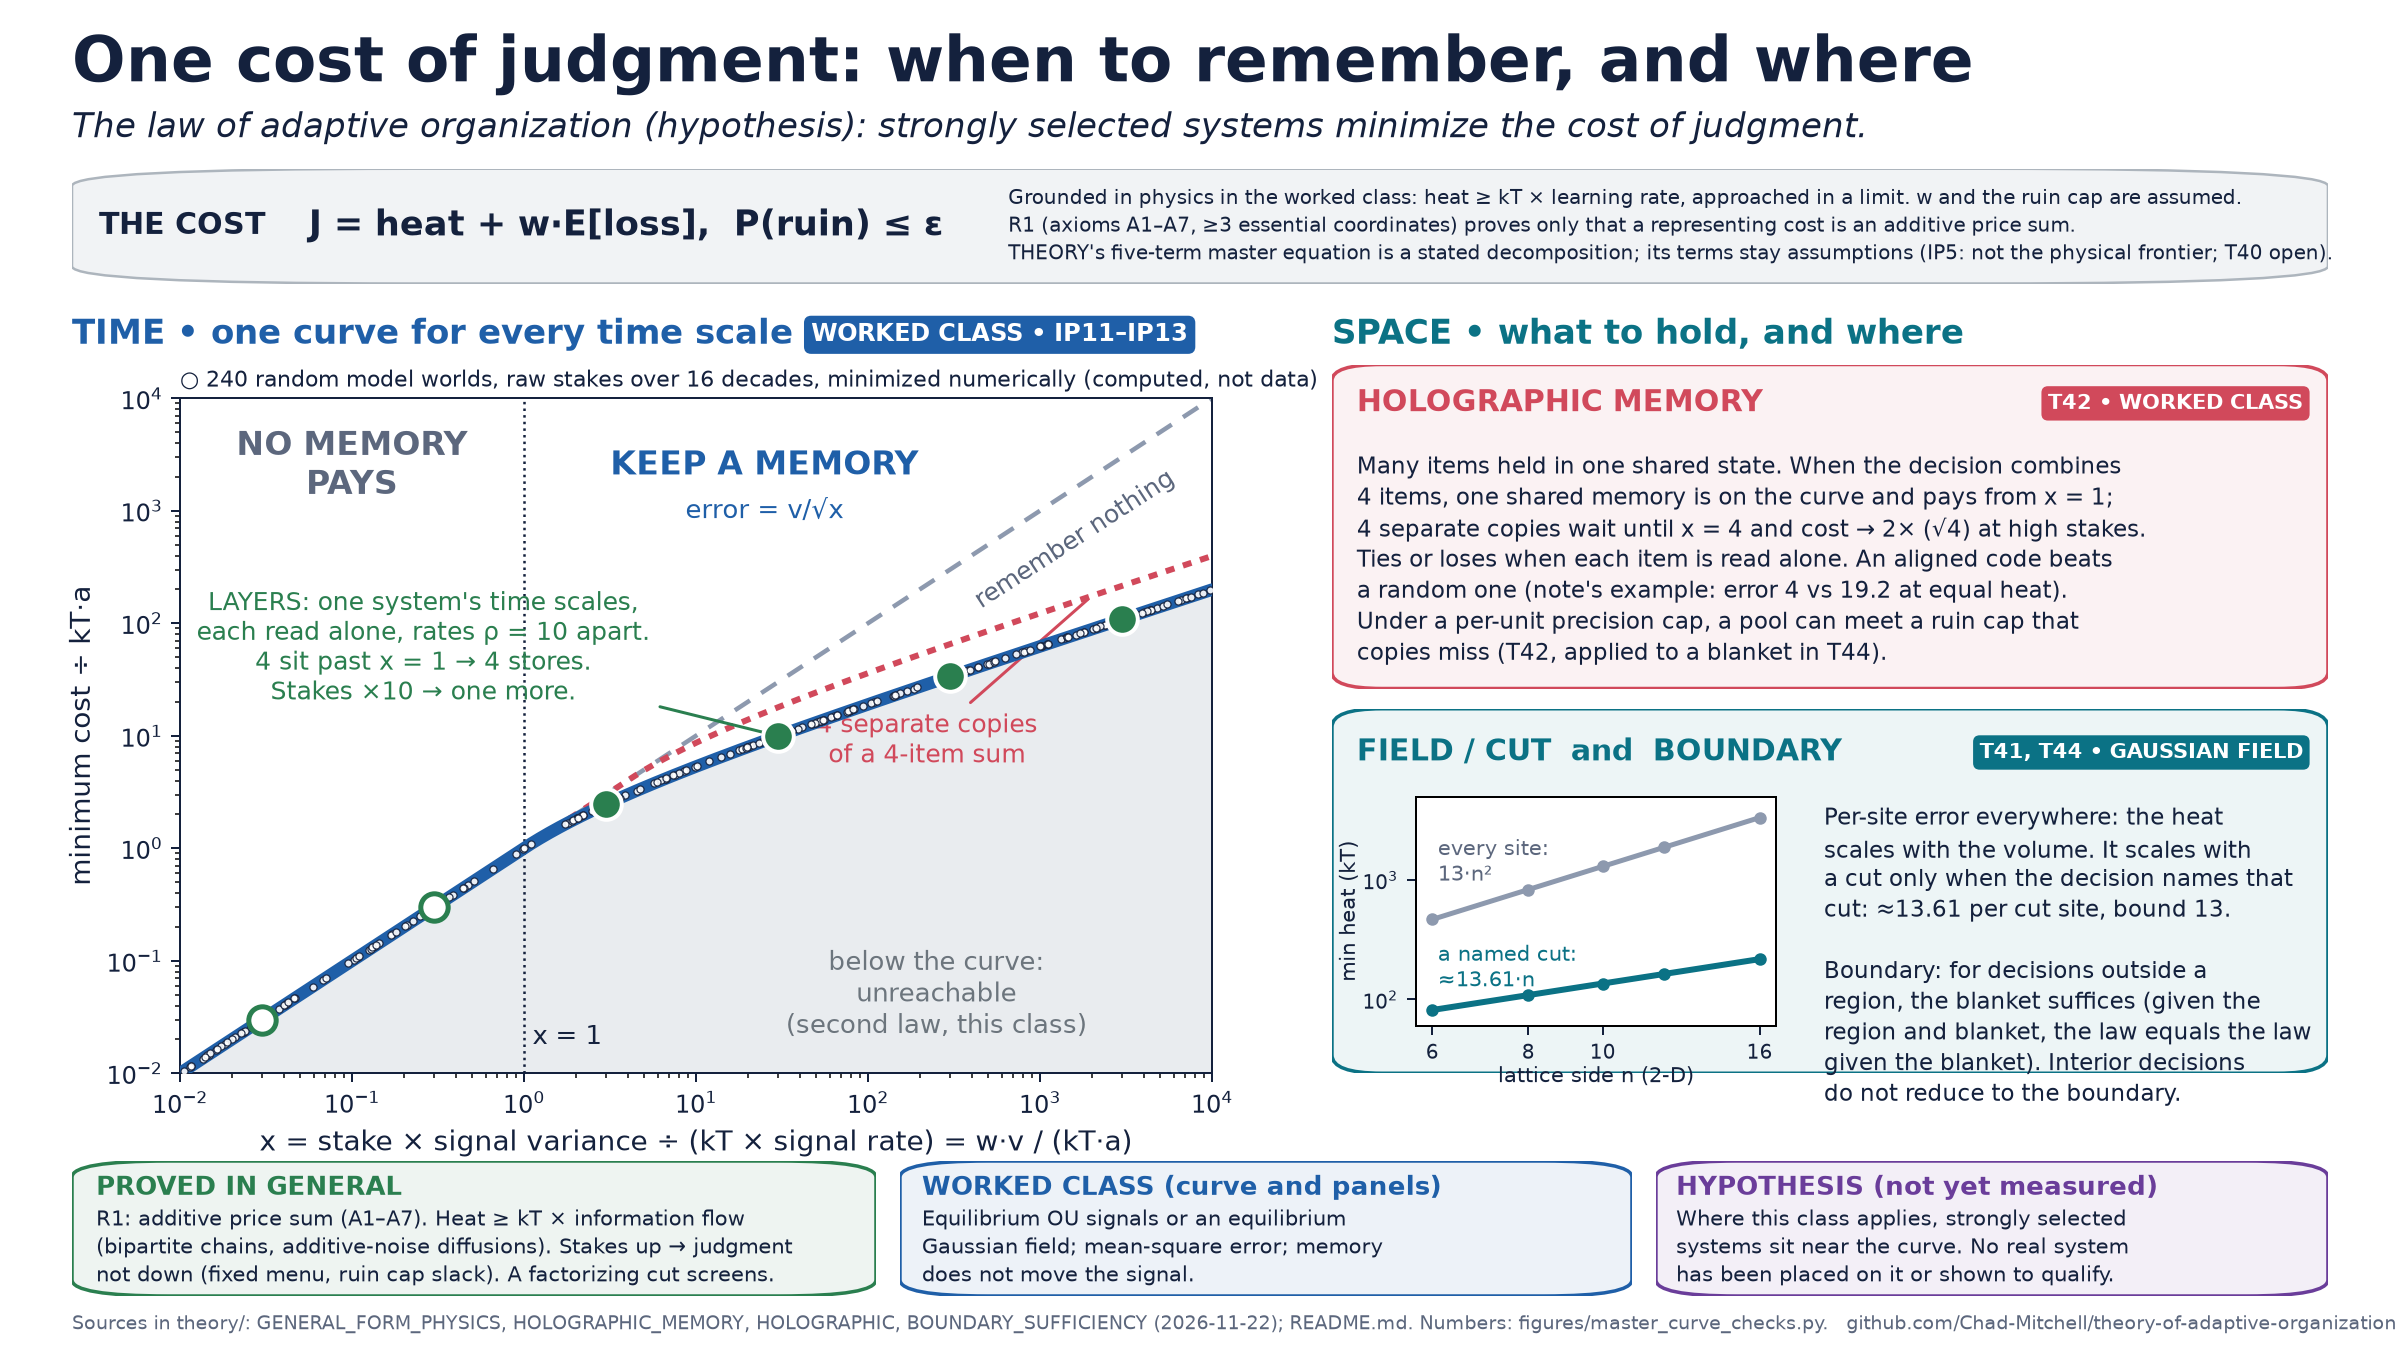
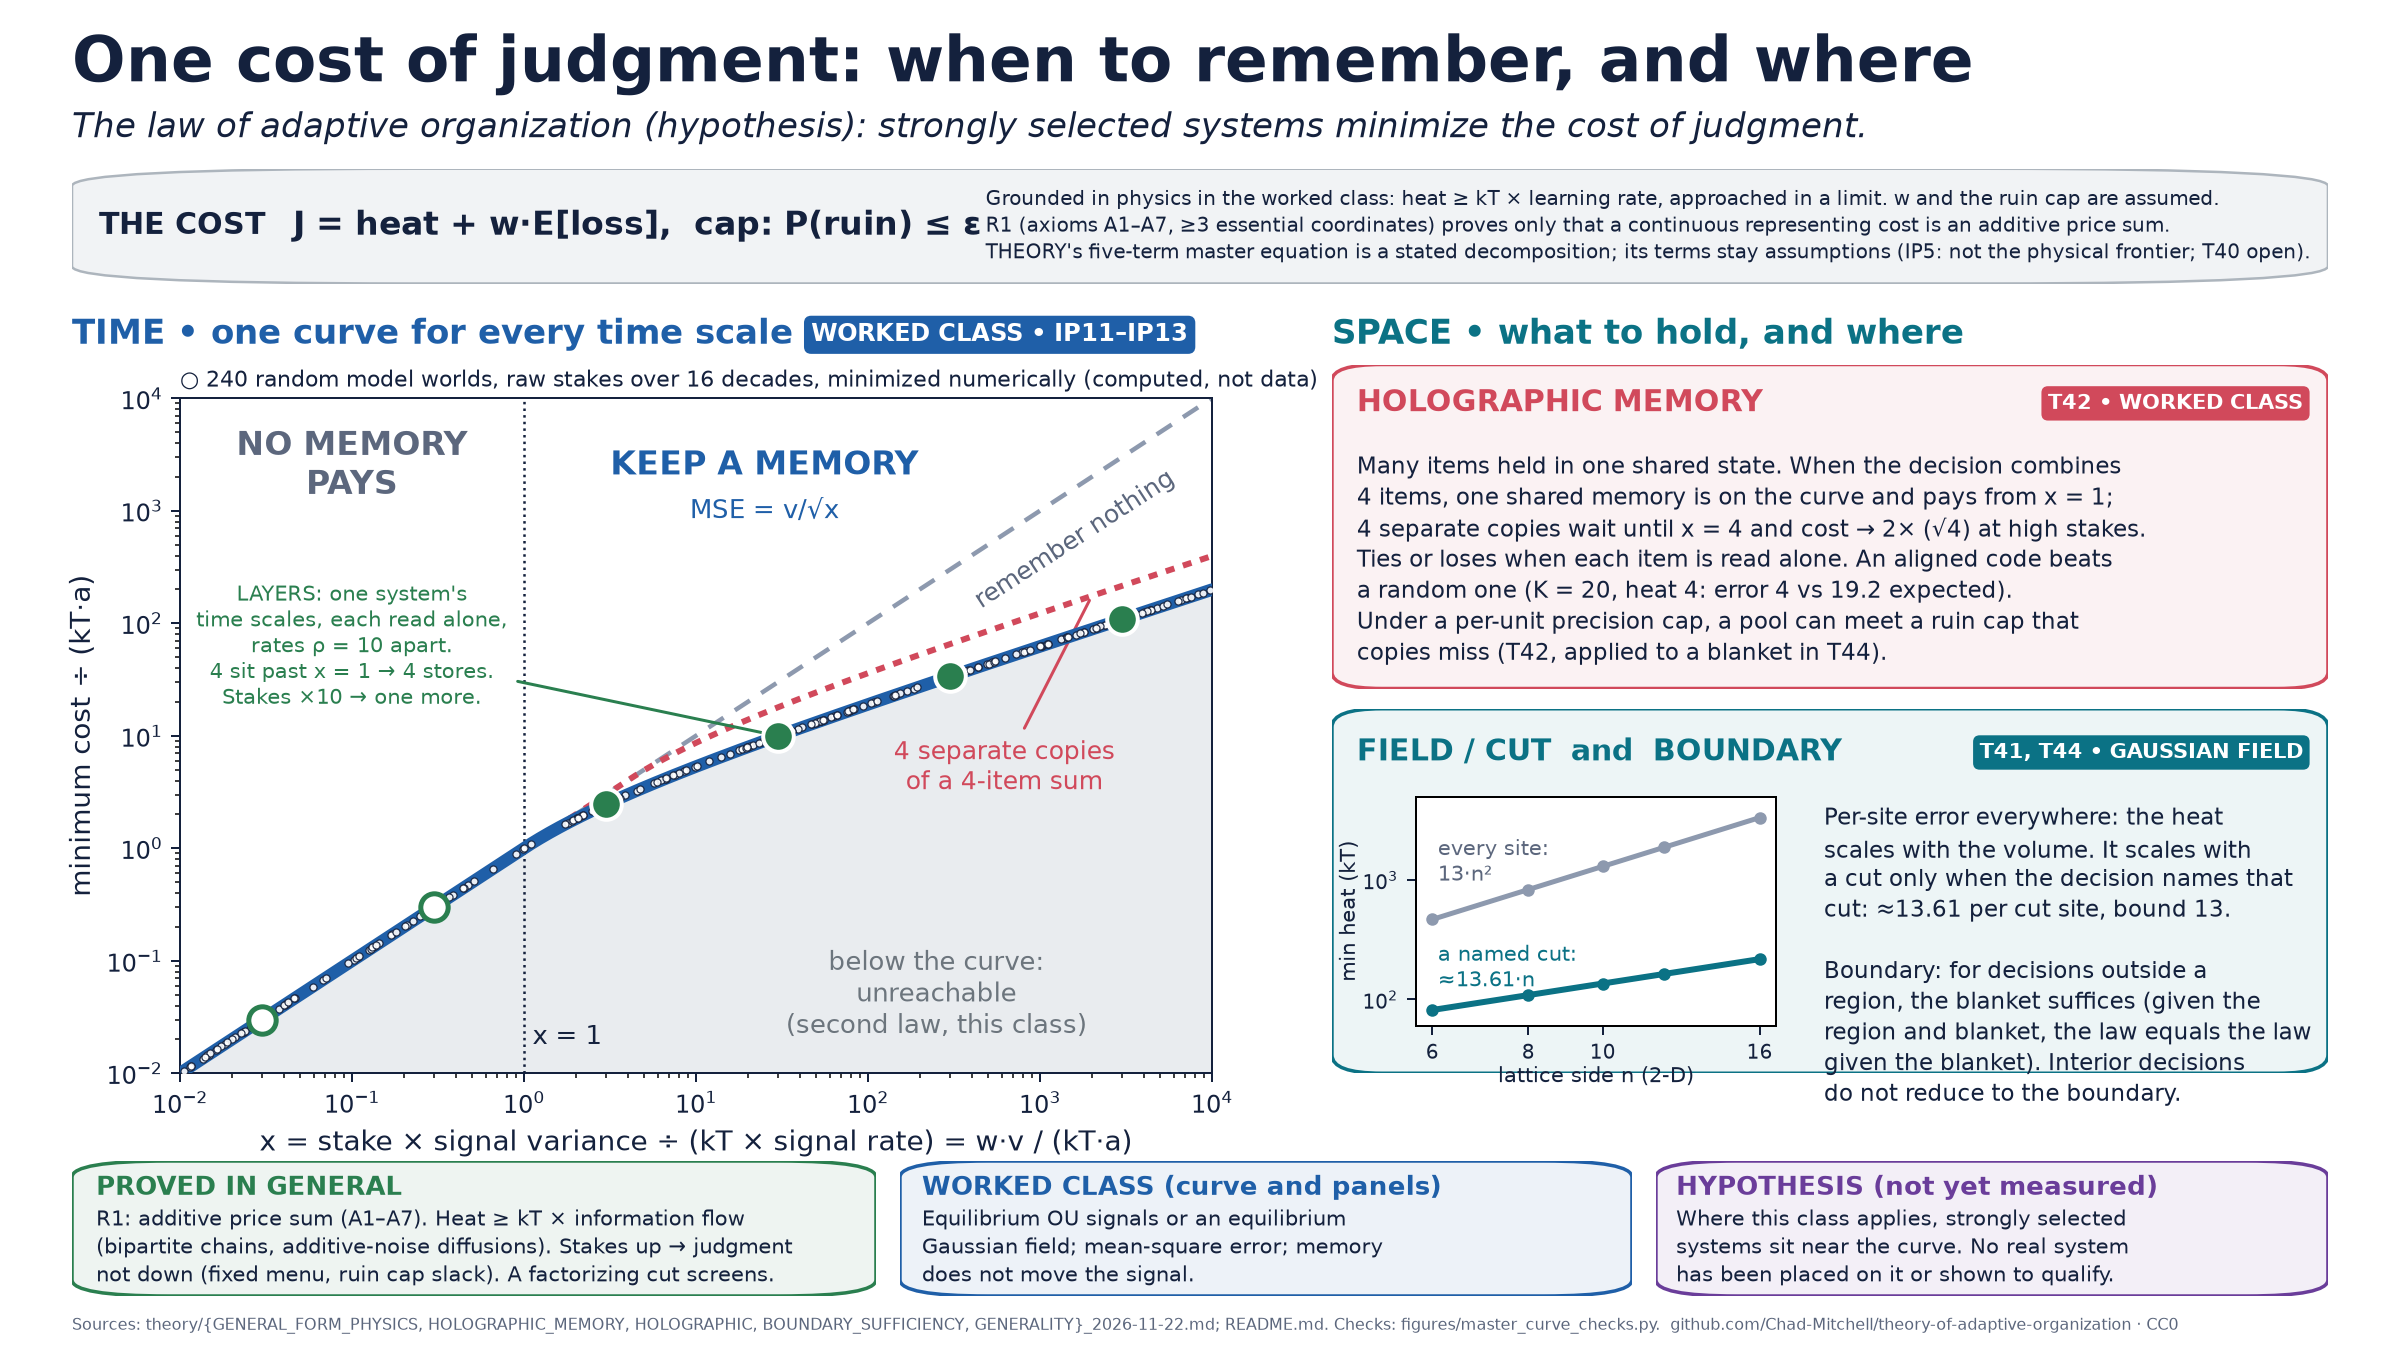
Hostile review fixes: fix annotation overlap, footer clipping, R1 wording, and BOUNDARY_SUFFICIENCY line citations

diff --git a/figures/master_curve.py b/figures/master_curve.py
@@ -33,13 +33,13 @@ axc = fig.add_axes([0.03, 0.79, 0.94, 0.085]); axc.axis("off")
 axc.add_patch(FancyBboxPatch((0, 0), 1, 1, boxstyle="round,pad=0,rounding_size=0.15", transform=axc.transAxes,
                              facecolor="#f1f3f5", edgecolor="#adb5bd", lw=1))
 axc.text(0.012, 0.5, "THE COST", fontsize=12, fontweight="bold", color=NAVY, va="center", transform=axc.transAxes)
-axc.text(0.105, 0.5, "J = heat + w\u00b7E[loss],  P(ruin) \u2264 \u03b5", fontsize=14, color=NAVY, va="center",
+axc.text(0.098, 0.5, "J = heat + w\u00b7E[loss],  cap: P(ruin) \u2264 \u03b5", fontsize=13.2, color=NAVY, va="center",
          transform=axc.transAxes, fontweight="bold")
-axc.text(0.415, 0.5,
+axc.text(0.405, 0.5,
          "Grounded in physics in the worked class: heat \u2265 kT \u00d7 learning rate, approached in a limit. w and the ruin cap are assumed.\n"
-         "R1 (axioms A1\u2013A7, \u22653 essential coordinates) proves only that a representing cost is an additive price sum.\n"
+         "R1 (axioms A1\u2013A7, \u22653 essential coordinates) proves only that a continuous representing cost is an additive price sum.\n"
          "THEORY's five-term master equation is a stated decomposition; its terms stay assumptions (IP5: not the physical frontier; T40 open).",
-         fontsize=8.2, color=NAVY, va="center", transform=axc.transAxes, linespacing=1.35)
+         fontsize=7.9, color=NAVY, va="center", transform=axc.transAxes, linespacing=1.35)
 
 # ---------------- TIME panel: the curve ----------------
 ax = fig.add_axes([0.075, 0.205, 0.43, 0.50])
@@ -69,14 +69,14 @@ ax.axvline(1, color=NAVY, lw=1, ls=":", zorder=1)
 ax.text(1.12, 1.6e-2, "x = 1", fontsize=10.5, color=NAVY, va="bottom")
 ax.text(0.1, 2.5e3, "NO MEMORY\nPAYS", fontsize=13, fontweight="bold", color="#5c677d", ha="center", va="center")
 ax.text(25, 2.5e3, "KEEP A MEMORY", fontsize=13, fontweight="bold", color=BLUE, ha="center", va="center")
-ax.text(25, 1.0e3, "error = v/\u221ax", fontsize=10.5, color=BLUE, ha="center", va="center")
-ax.annotate("LAYERS: one system's time scales,\neach read alone, rates \u03c1 = %g apart.\n4 sit past x = 1 \u2192 4 stores.\nStakes \u00d7%g \u2192 one more."
-            % (P["rho"], P["rho"]), xy=(lx[2], ly[2]), xytext=(0.26, 60), fontsize=9.8, color=GREEN, ha="center", va="center",
+ax.text(25, 1.0e3, "MSE = v/\u221ax", fontsize=10.5, color=BLUE, ha="center", va="center")
+ax.annotate("LAYERS: one system's\ntime scales, each read alone,\nrates \u03c1 = %g apart.\n4 sit past x = 1 \u2192 4 stores.\nStakes \u00d7%g \u2192 one more."
+            % (P["rho"], P["rho"]), xy=(lx[2], ly[2]), xytext=(0.10, 62), fontsize=8.6, color=GREEN, ha="center", va="center",
             arrowprops=dict(arrowstyle="-", color=GREEN, lw=1.2))
-ax.annotate("%d separate copies\nof a %d-item sum" % (K, K), xy=(2e3, float(M.separate_copies(2e3, K))), xytext=(2.2e2, 9),
+ax.annotate("%d separate copies\nof a %d-item sum" % (K, K), xy=(2e3, float(M.separate_copies(2e3, K))), xytext=(6.2e2, 5.2),
             fontsize=10, color=ORANGE, ha="center", va="center", arrowprops=dict(arrowstyle="-", color=ORANGE, lw=1.2))
 ax.set_xlabel("x = stake \u00d7 signal variance \u00f7 (kT \u00d7 signal rate) = w\u00b7v / (kT\u00b7a)", fontsize=11, color=NAVY)
-ax.set_ylabel("minimum cost \u00f7 kT\u00b7a", fontsize=11, color=NAVY)
+ax.set_ylabel("minimum cost \u00f7 (kT\u00b7a)", fontsize=11, color=NAVY)
 ax.tick_params(labelsize=9.5, colors=NAVY)
 for s in ax.spines.values():
     s.set_color(NAVY)
@@ -102,7 +102,7 @@ tbox(0.49, 0.24, ORANGE, "HOLOGRAPHIC MEMORY", "T42 \u2022 WORKED CLASS",
      "%d items, one shared memory is on the curve and pays from x = 1;\n"
      "%d separate copies wait until x = %d and cost \u2192 2\u00d7 (\u221a%d) at high stakes.\n"
      "Ties or loses when each item is read alone. An aligned code beats\n"
-     "a random one (note's example: error 4 vs 19.2 at equal heat).\n"
+     "a random one (K = 20, heat 4: error 4 vs 19.2 expected).\n"
      "Under a per-unit precision cap, a pool can meet a ruin cap that\n"
      "copies miss (T42, applied to a blanket in T44)." % (K, K, K, K), size=9.2)
 
@@ -152,9 +152,9 @@ sbox(0.69, 0.28, PURPLE, "HYPOTHESIS (not yet measured)",
      "systems sit near the curve. No real system\n"
      "has been placed on it or shown to qualify.")
 fig.text(0.03, 0.012,
-         "Sources in theory/: GENERAL_FORM_PHYSICS, HOLOGRAPHIC_MEMORY, HOLOGRAPHIC, BOUNDARY_SUFFICIENCY (2026-11-22); README.md. "
-         "Numbers: figures/master_curve_checks.py.   github.com/Chad-Mitchell/theory-of-adaptive-organization \u00b7 CC0 \u00b7 22 Nov 2026",
-         fontsize=7.6, color="#5c677d", va="bottom")
+         "Sources: theory/{GENERAL_FORM_PHYSICS, HOLOGRAPHIC_MEMORY, HOLOGRAPHIC, BOUNDARY_SUFFICIENCY, GENERALITY}_2026-11-22.md; README.md. "
+         "Checks: figures/master_curve_checks.py.  github.com/Chad-Mitchell/theory-of-adaptive-organization \u00b7 CC0",
+         fontsize=6.5, color="#5c677d", va="bottom")
 
 fig.savefig(OUT, dpi=180, facecolor="white")
 print("wrote", OUT)

diff --git a/figures/master_curve.md b/figures/master_curve.md
@@ -19,20 +19,20 @@ From `theory/GENERAL_FORM_PHYSICS_2026-11-22.md` §5 (lines 84–87): blind when
 | Hypothesis sentence | README.md:5, CORE.md:7, THEORY.md:41 | hypothesis |
 | J = heat + w·E[loss], P(ruin) ≤ ε | README.md:17; theory/GENERAL_FORM_PHYSICS_2026-11-22.md:26 | worked class (physics-grounded); w and cap assumed (GFP:155–158) |
 | heat ≥ kT × learning rate, approached in a limit | GFP:21, GFP:29, GFP:56–64 (IP11) | worked class |
-| R1: under A1–A7, ≥3 essential coordinates, a representing cost is an additive price sum, and only that | README.md:31 | general |
+| R1: under A1–A7, ≥3 essential coordinates, a continuous representing cost is an additive price sum, and only that | README.md:31; theory/REPRESENTATION.md:19 | general |
 | Five-term master equation is a stated decomposition; terms stay assumptions; IP5; T40 open | GFP:39, GFP:241, OPEN_WORK.md:92 | stated, not derived |
 | Curve: x ≤ 1 blind, 2√x − 1 above; error v/√x | GFP:84–87 | worked class (IP11) |
 | Below the curve unreachable | GFP:62 (floor kT R(ε)); checks §4 | worked class |
 | 240 random worlds on the curve | computed here (`brute_min`), not data | computed |
 | Ladder: ρ = 10, 4 of 6 rungs past x = 1, stakes ×ρ adds one | GFP:95–98 (per-mode loss, equal variances; IP12 per HOLOGRAPHIC_2026-11-22.md:31) | worked class |
-| Holographic: shared memory on the curve, pays from x = 1; K copies wait to x = K | GFP:106 (blind stake lower by K); general_checks.py:383–398 | worked class (T42/T39) |
+| Holographic: shared memory on the curve, pays from x = 1; K copies wait to x = K | GFP:106 (blind stake lower by K); HOLOGRAPHIC_MEMORY_2026-11-22.md:52–70; general_checks.py:383–398 | worked class (T42/T39) |
 | Copies cost → √K = 2× at high stakes | HOLOGRAPHIC_MEMORY_2026-11-22.md:25 | worked class |
 | Ties or loses when each item is read alone | HOLOGRAPHIC_MEMORY_2026-11-22.md:13, :118 | worked class |
-| Aligned beats random: 4 vs 19.2 at equal heat | HOLOGRAPHIC_MEMORY_2026-11-22.md:120 | worked class (note's example) |
+| Aligned beats random: 4 vs 19.2 expected at equal heat (K = 20, heat 4) | HOLOGRAPHIC_MEMORY_2026-11-22.md:98, :120 | worked class (note's example) |
 | Per-unit precision cap: a pool meets a ruin cap copies miss | BOUNDARY_SUFFICIENCY_2026-11-22.md:33, :145–147, :187 | worked class (T42, T44) |
 | Field: heat ∝ volume at per-site error; 13 per site, 13·n² | HOLOGRAPHIC_2026-11-22.md:21, :130 | worked class (T41) |
 | Named cut: ≈13.61 per cut site, bound 13 (217.693 vs 208 at n = 16) | HOLOGRAPHIC_2026-11-22.md:17, :130; recomputed with that note's checker functions | worked class (T41) |
-| Boundary: blanket suffices for decisions outside a region; interior not | BOUNDARY_SUFFICIENCY_2026-11-22.md:15, :21 | worked class (T44, Gaussian field) |
+| Boundary: blanket suffices for decisions outside a region; interior not | BOUNDARY_SUFFICIENCY_2026-11-22.md:13, :19, :39 | worked class (T44, Gaussian field) |
 | General: heat ≥ kT × information flow (bipartite chains, additive-noise diffusions) | README.md:33; GENERALITY_2026-11-22.md:17 | general |
 | General: stakes up → judgment not down (fixed menu, ruin slack) | README.md:33 | general |
 | General: a factorizing cut screens | README.md:33 | general |
